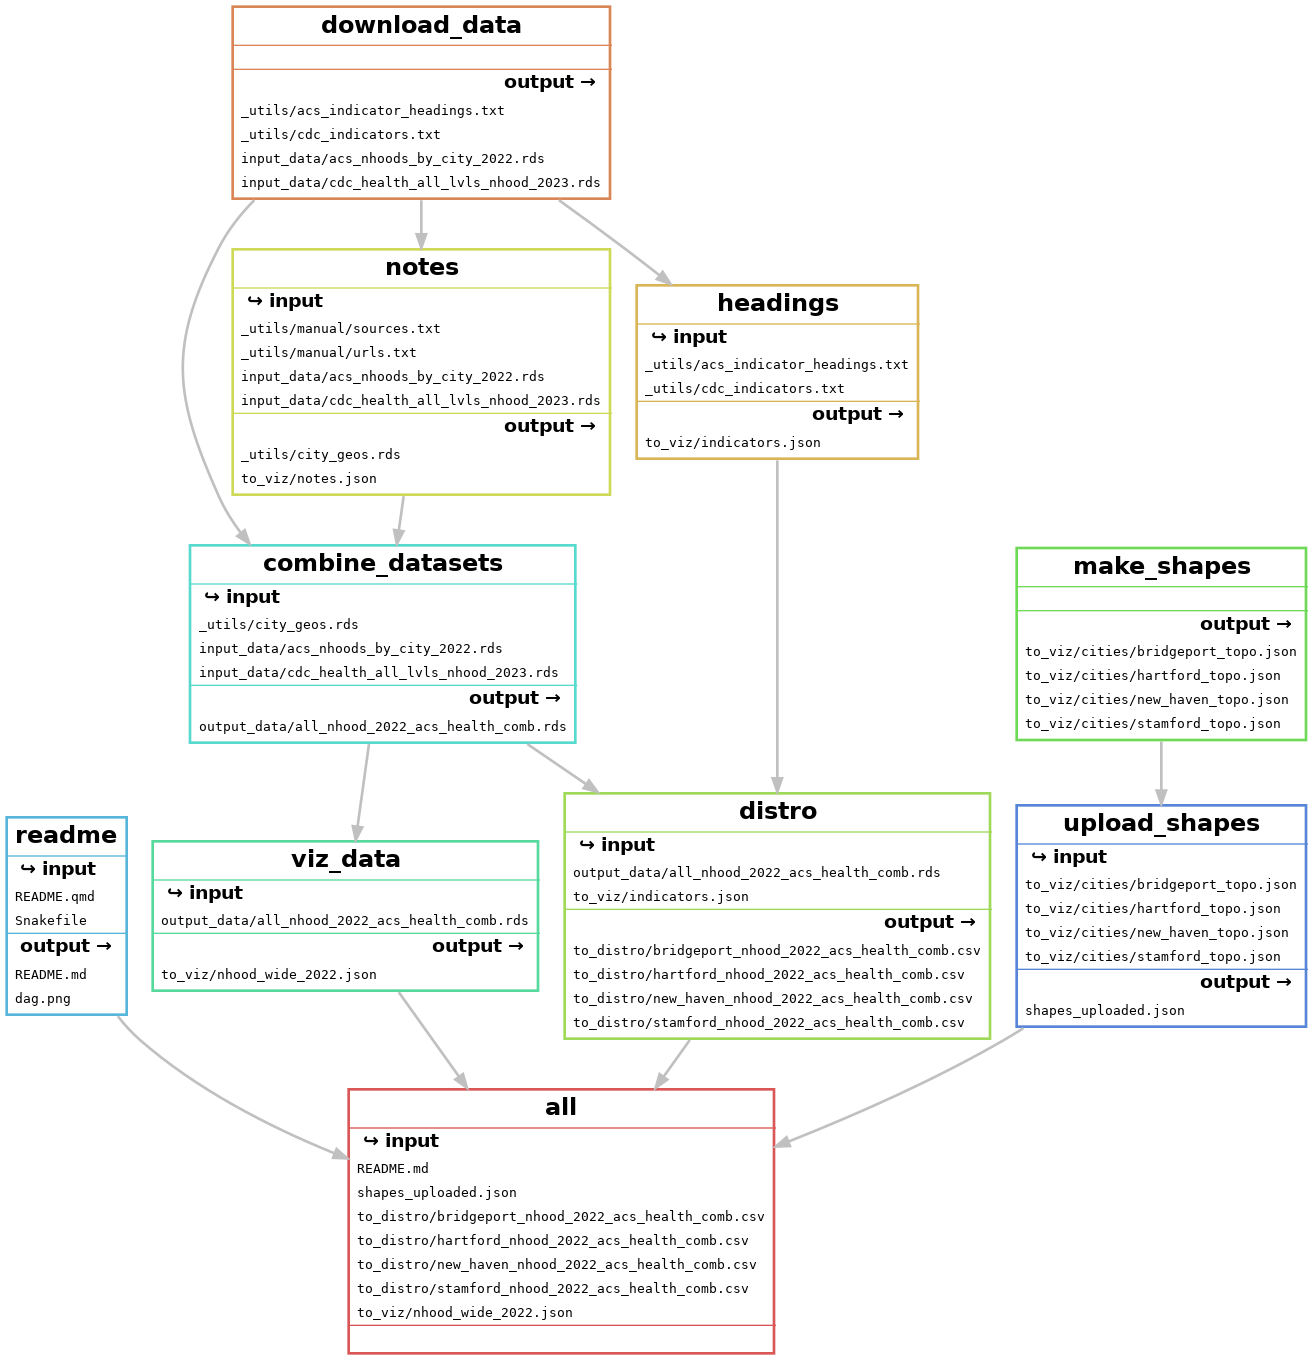
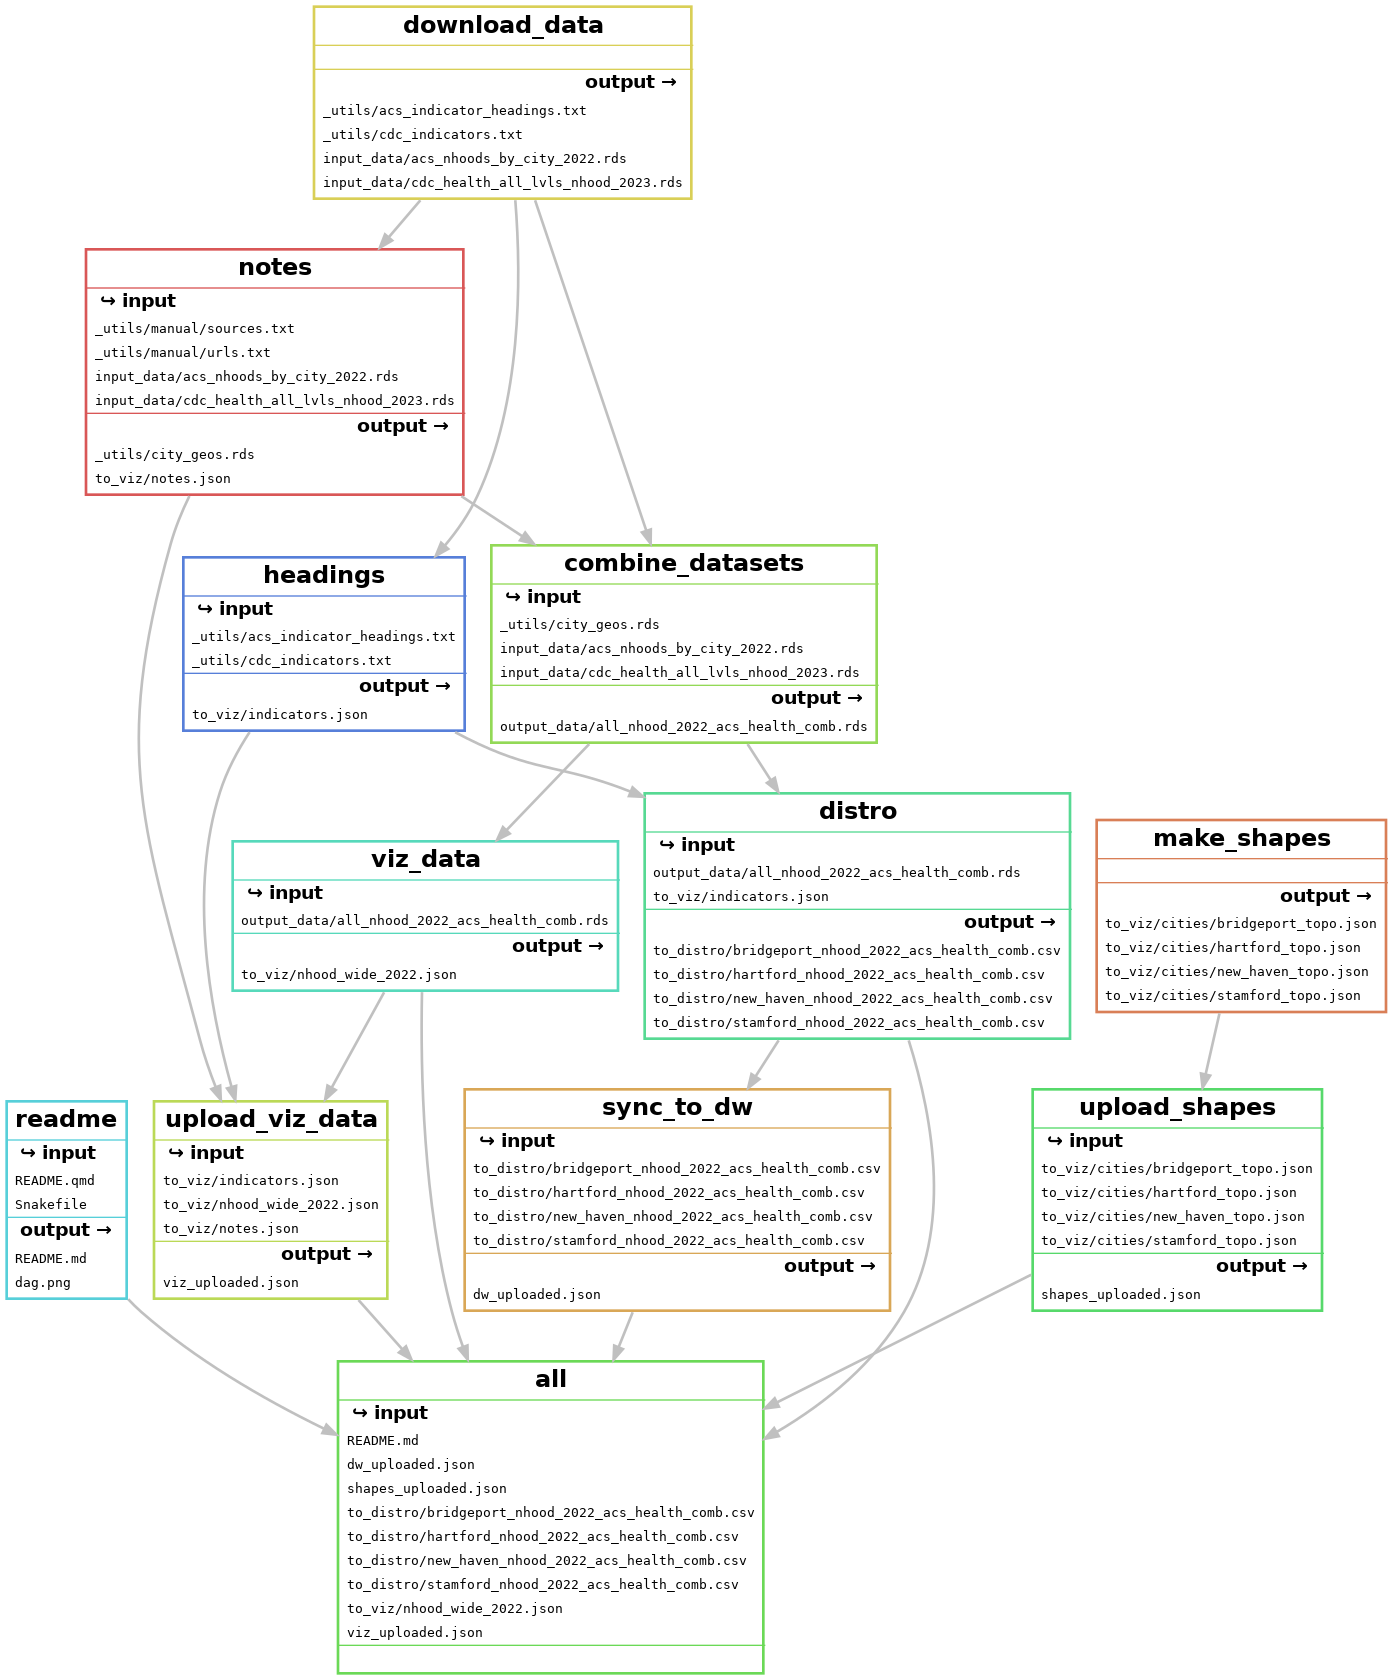
Add scripts to sync data.world, upload release for viz

Changed region(s): [[0.0, 0.0, 0.9992, 1.0], [0.1561, 0.8029, 0.1874, 0.8338], [0.1561, 0.0309, 0.1874, 0.0618]]

diff --git a/README.md b/README.md
@@ -49,7 +49,9 @@ This uses snakemake to build. Rules available are:
     make_shapes
     notes
     readme
+    sync_to_dw
     upload_shapes
+    upload_viz_data
     viz_data
 
 Build process is as follows:
